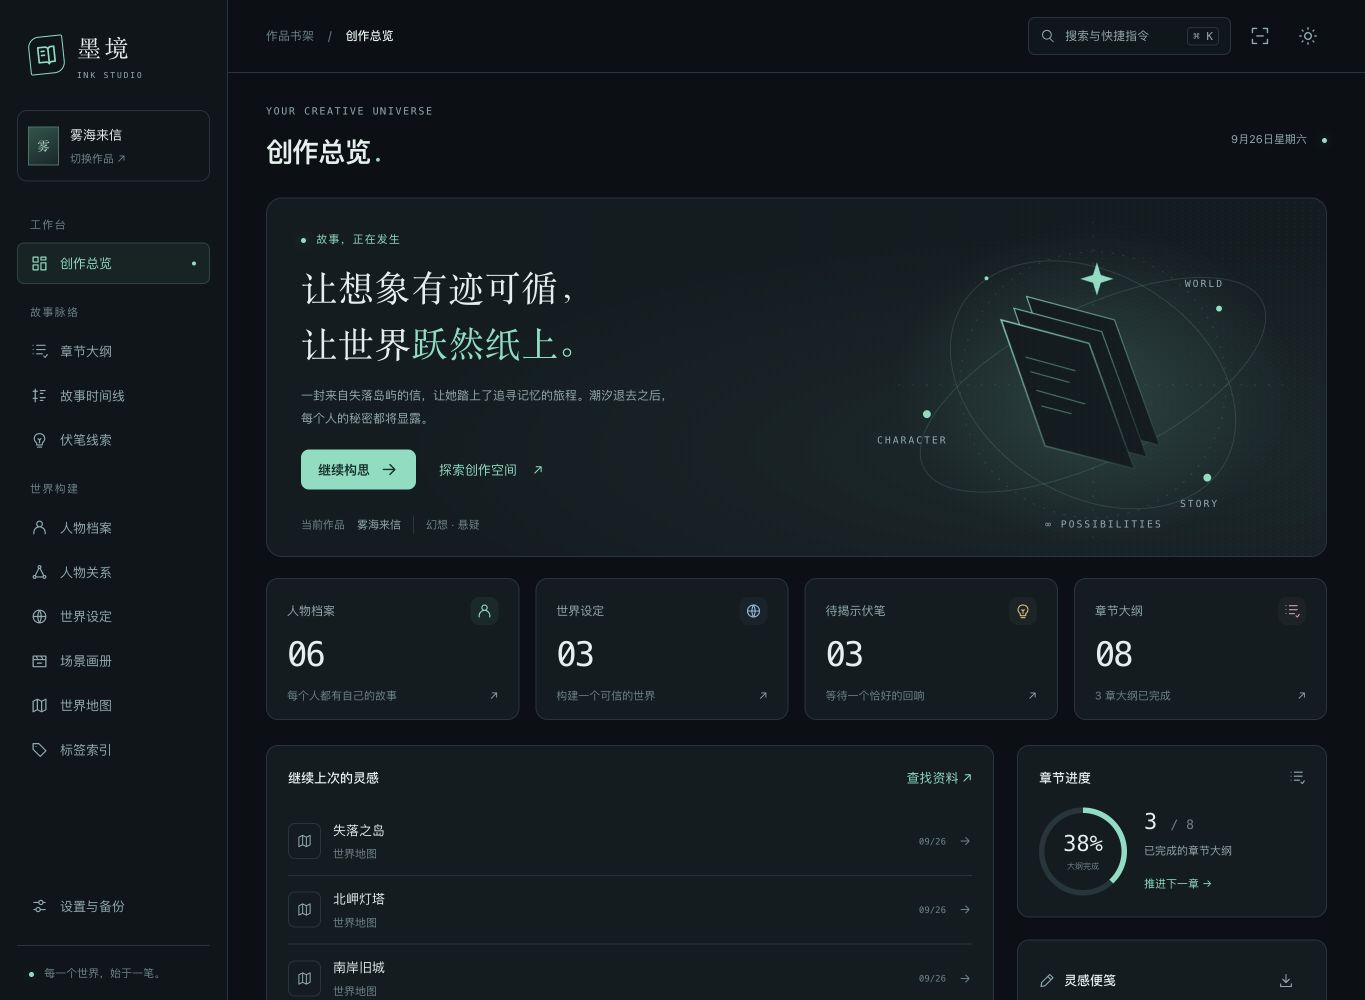
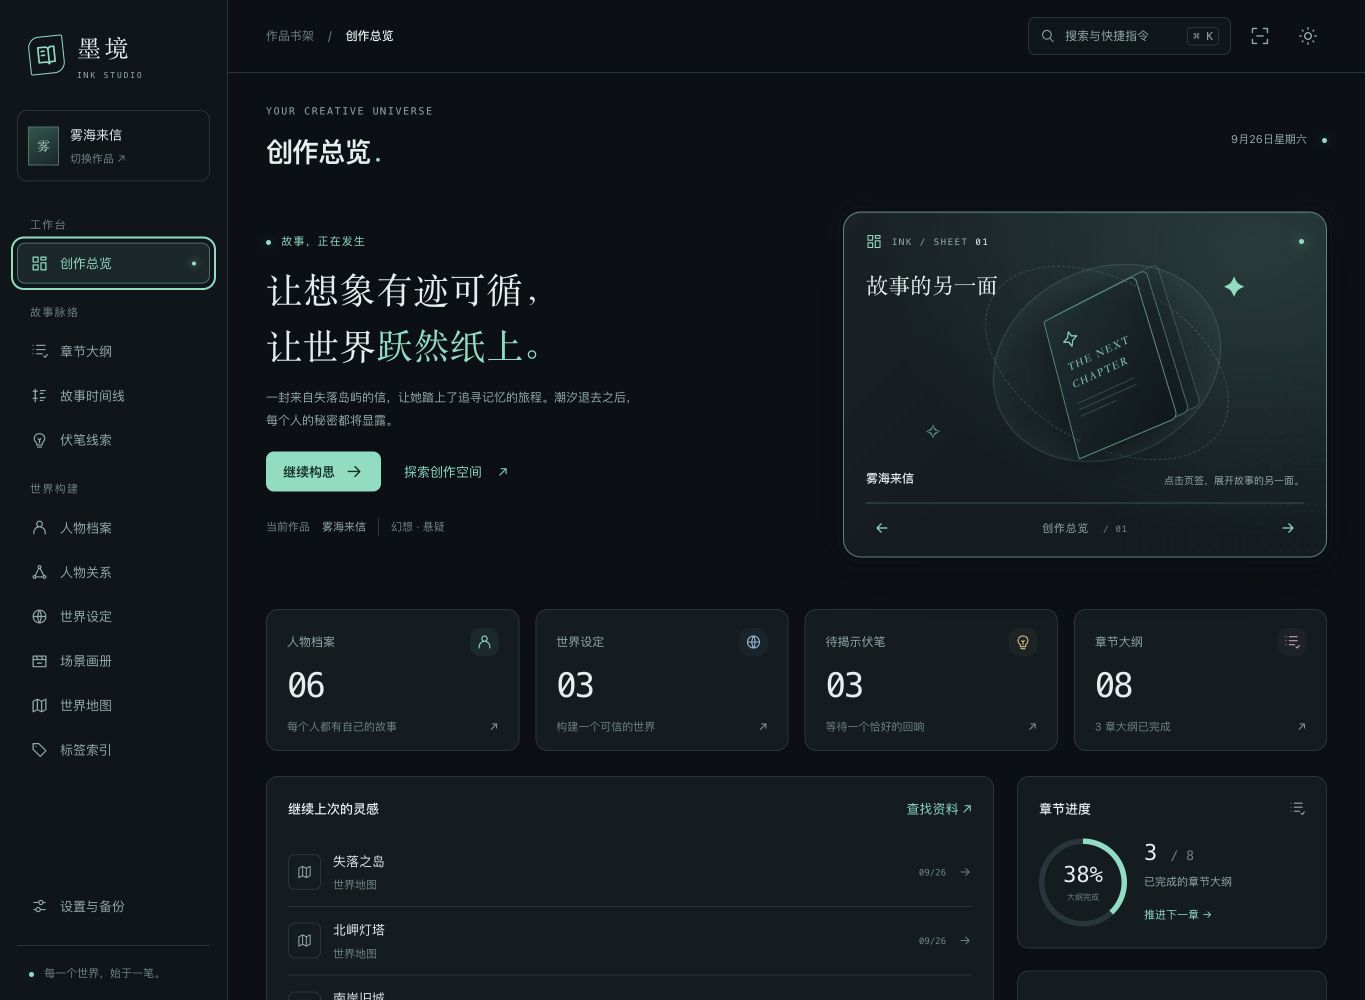
docs(studio): demonstrate spatial sheet transitions and validation

diff --git a/docs/ink-studio.md b/docs/ink-studio.md
@@ -8,6 +8,22 @@
 
 ## 日常创作
 
+### 空间折页
+
+点击侧栏页签或手机模块选择器时，同一张折页会离开原位置，翻转半圈，调整尺寸并落到新位置；内容在翻到侧面时切换。翻转方向跟随模块顺序，侧栏选中标记连续移动。
+
+![实际浏览器转场抽帧](screenshots/spatial-sheets.gif)
+
+GIF 是浏览器截图抽帧，应用中为连续动画。12 个模块使用各自的色彩和内容：总览是立体故事书，人物与伏笔在右侧展开索引，时间线与世界观在左侧展示导览，大纲、场景、关系和地图展开为顶部横幅；标签、搜索、设置也有对应折页。
+
+索引和统计读取当前列表，随筛选与编辑更新；章节条显示当前列表的构思、写作、完成数量。点击索引直接编辑条目，关系折页中的人物链接进入人物编辑。底部箭头也能切换模块。手机按空间压缩装饰与索引，保留页面主体的全部操作。
+
+![人物折页停靠在右侧](screenshots/spatial-characters.png)
+
+“设置与备份”折页提供空间转场开关，保存于当前浏览器；系统启用减少动态效果时自动直接切换。快速连点只保留最后一次目的地，转场中滚动或缩放会立即停靠，专注模式下重新对齐。
+
+### 创作工具
+
 - 总览统计当前小说的人物、世界设定、待揭示伏笔和章节大纲。进度指已完成的大纲比例，不代表正文字数或整本小说完成度。请求失败时显示缺失提示与重试入口。
 - “继续上次的灵感”按更新时间排列最近五条资料，点击直接打开编辑。
 - 顶部搜索按钮或 ⌘K / Ctrl+K 打开快捷指令；输入模块名后 Enter 跳转，输入资料关键词后搜索当前小说。上下方向键选择，Esc 或“关闭”退出。
@@ -18,7 +34,7 @@
 
 灵感便笺仅保存在当前浏览器，按小说 ID 隔离，最多 20,000 个字符。输入即时自动保存；存储空间不足时明确提示，并保留当前文本供导出。Markdown 导出包含便笺原文。
 
-便笺、计时和主题选择使用浏览器 localStorage，不随服务器小说备份或 WebDAV 同步，也不包含在原有背景偏好文件中。重要便笺请单独导出；清除浏览器站点数据会移除这些本地内容。
+便笺、计时、主题选择和空间转场开关使用浏览器 localStorage，不随服务器小说备份或 WebDAV 同步，也不包含在原有背景偏好文件中。重要便笺请单独导出；清除浏览器站点数据会移除这些本地内容。
 
 ![晨雾主题](screenshots/studio-light.png)
 
@@ -32,4 +48,4 @@
 
 `cd frontend-vue && npm test && npm run build`
 
-新增回归覆盖组合筛选、最近条目排序、便笺隔离和导出、存储失败、计时恢复与清理、书架封面上传归属、地图尺寸换算。截图与浏览器验证采用独立 PostgreSQL 测试库中的虚构作品；演示数据不写入用户小说库，也不随产品代码安装。
+48 项前端回归覆盖组合筛选、最近条目排序、便笺隔离和导出、存储失败、计时恢复与清理、书架封面上传归属、地图尺寸换算，以及折页中途换面、连续导航取消、离开后的清理。截图与浏览器验证采用独立 PostgreSQL 测试库中的虚构作品；演示数据不写入用户小说库，也不随产品代码安装。

diff --git a/docs/maintenance-batches.md b/docs/maintenance-batches.md
@@ -115,3 +115,12 @@
 - 43 项前端测试、Vue 类型检查及生产构建通过。新增 7 项测试覆盖筛选、最近记录、计时恢复/暂停/清理、无效计时状态、便笺隔离/存储失败/导出、无上下文封面上传以及地图尺寸换算。
 - 浏览器实测双主题、1365px 桌面、390px 各模块与 320px 总览；未发现横向溢出。验证便笺刷新与跨作品隔离、计时刷新、指令跳转和关键词搜索、⌘K、专注模式，以及手机地图中心点击约为 (400,300)。浏览器无错误或警告日志。
 - 独立 PostgreSQL/WsgiDAV 回归通过，浏览器截图使用该测试库的虚构作品。没有写入用户原有小说数据库；临时服务在验证后关闭。预览保存在 `docs/screenshots/`。
+
+## 第十四批：跨模块空间折页（2026-09-26）
+
+- 新增一个贯穿 12 个模块的持久折页。切换模块时改变位置、尺寸与朝向，翻到侧面时替换内容，最终停靠在页面预留位置；同步移动侧栏选中标记。
+- 总览立体故事书、侧边人物与事件索引、横向章节进度和场景画册分别采用对应布局，显示当前 Pinia 列表中的真实内容。索引可直接编辑，补齐标签深链接，并支持关闭后再次打开同一条目。
+- 连续导航会取消旧转场及迟到回调；离开作品清理动画、监听器和观察器。滚动、窗口变化和专注模式重新对齐，转场期间折页不可交互，编辑弹窗继续隔离背景。
+- 夜航/晨雾、小屏排版与系统减少动态效果适配；新增可持久保存的空间转场开关。不增加运行时依赖。
+- 48 项前端测试、Vue 类型检查和生产构建通过。新增 5 项测试覆盖中途换面、快速导航、取消后迟到完成、清理与模块配置。独立 PostgreSQL/WsgiDAV 回归通过。
+- 浏览器实测桌面转场、连续切换、后退、专注模式、索引直接编辑与重新打开、弹窗背景 inert、关闭动效立即停靠、页面滚动及中途离开。390px 各模块与 320px 大纲无横向溢出，控制台无错误或警告。实际转场抽帧及桌面/手机截图保存在 `docs/screenshots/`。

diff --git a/README.md b/README.md
@@ -4,9 +4,9 @@
 
 一个功能完整的小说创作辅助工具，帮助作者管理人物、场景、伏笔、大纲、时间轴、地图和人物关系等创作要素。
 
-![墨境创作总览，示例数据](docs/screenshots/studio-overview.png)
+![墨境空间折页，实际浏览器转场抽帧](docs/screenshots/spatial-sheets.gif)
 
-Vue 前端现采用全新的创作工作室界面。查看 [工作室使用说明](docs/ink-studio.md)。截图使用独立测试库的虚构作品。
+Vue 前端采用墨境创作工作室界面。同一张「空间折页」随模块切换翻转、移动、展开，在新位置显示人物索引、章节进度或事件导览；侧栏选中标记同步滑动。上图为实际浏览器抽帧，应用中的转场连续播放。查看 [工作室使用说明](docs/ink-studio.md)。演示使用独立测试库的虚构作品。
 
 ## 功能特点
 
